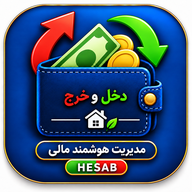
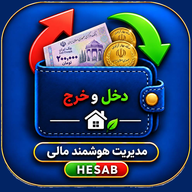
Add files via upload

diff --git a/index.html b/index.html
@@ -961,7 +961,9 @@ $('txMonth').addEventListener('change',e=>{tvm=+e.target.value;renderTransaction
 $('txYear').addEventListener('change',e=>{tvy=+e.target.value;renderTransactionsTab()});
 function monthKey(y,m){return Number(y)*12+(Number(m)-1)}
 function validTx(t){return t&&Number.isFinite(Number(t.y))&&Number.isFinite(Number(t.m))&&Number(t.m)>=1&&Number(t.m)<=12&&Number(t.a)>=0&&(t.t==='i'||t.t==='e')}
-function closingBalance(y,m){const target=monthKey(y,m);return S.tx.reduce((sum,t)=>{if(!validTx(t)||monthKey(t.y,t.m)>target)return sum;return sum+(t.t==='i'?Number(t.a):-Number(t.a))},0)}
+function curMonthKey(){const n=new Date(),j=toJ(n.getFullYear(),n.getMonth()+1,n.getDate());return monthKey(j[0],j[1])}
+function closingBalance(y,m){const target=monthKey(y,m),future=target>curMonthKey();return S.tx.reduce((sum,t)=>{if(!validTx(t))return sum;const k=monthKey(t.y,t.m);if(k>target||(future&&k!==target))return sum;return sum+(t.t==='i'?Number(t.a):-Number(t.a))},0)}
+let lastMK=curMonthKey();setInterval(()=>{const k=curMonthKey();if(k!==lastMK){lastMK=k;try{render()}catch(e){}}},30000);
 function render(){
  $('mt').textContent=MN[vm-1]+' '+pd(vy);
  const tx=S.tx.filter(t=>Number(t.y)===Number(vy)&&Number(t.m)===Number(vm));
@@ -1239,7 +1241,7 @@ function fitSum(){
 }
 window.addEventListener('resize',()=>fitSum());
 if(document.fonts&&document.fonts.ready)document.fonts.ready.then(()=>fitSum());
-const APP_VER='1.5.6';$('appv').textContent=APP_VER;
+const APP_VER='1.5.8';$('appv').textContent=APP_VER;
 async function latestVer(){try{const u=new URL('index.html',location.href);u.search='?v='+Date.now();const c=new AbortController();const timer=setTimeout(()=>c.abort(),4500);try{const r=await fetch(u.href,{cache:'no-store',signal:c.signal});if(!r.ok)return null;const m=(await r.text()).match(/const APP_VER='([^']+)'/);return m?m[1]:null}finally{clearTimeout(timer)}}catch(e){return null}}
 async function hardRefresh(){
  const m=$('chkm');if(m)m.textContent='در حال دریافت نسخه جدید…';

diff --git a/sw.js b/sw.js
@@ -1,4 +1,4 @@
-const CACHE_NAME = 'hesab-shell-v25';
+const CACHE_NAME = 'hesab-shell-v27';
 function fetchTimed(input, options = {}, timeoutMs = 8000) {
   const controller = new AbortController();
   const timer = setTimeout(() => controller.abort(), timeoutMs);

diff --git a/README.md b/README.md
@@ -1,5 +1,12 @@
 HESAB — دخل و خرج خانه
 
+نسخه 1.5.8:
+- آیکون و لوگوی برنامه با لوگوی جدید HESAB جایگزین شد.
+
+نسخه 1.5.7:
+- رفع باگ انتخاب سال سررسید در مطالبات و دیون (و سال فرم ثبت تراکنش): بعد از انتخاب سال، فیلد خالی نمیشد و فقط سال جاری قابل انتخاب بود.
+- انتقال مانده ماه اصلاح شد: مانده هر ماه فقط پس از پایان آن ماه (نیمهشب آخرین روز) به ماه بعد منتقل میشود و در ماههای آینده نمایش داده نمیشود.
+
 نسخه 1.5.6:
 - مانده ماه بهصورت خودکار از تمام درآمدها و هزینههای ماههای قبل محاسبه میشود؛ مانده مثبت و کسری به ماه بعد منتقل میشوند و تراکنش انتقالی جداگانه ثبت نمیشود.
 - گزارش درآمد و هزینه ماهانه و سالانه همچنان فقط تراکنشهای واقعی را جمع میزند؛ مانده ماه در گزارش ماهانه و خروجی اکسل به شکل تجمعی نشان داده میشود.
